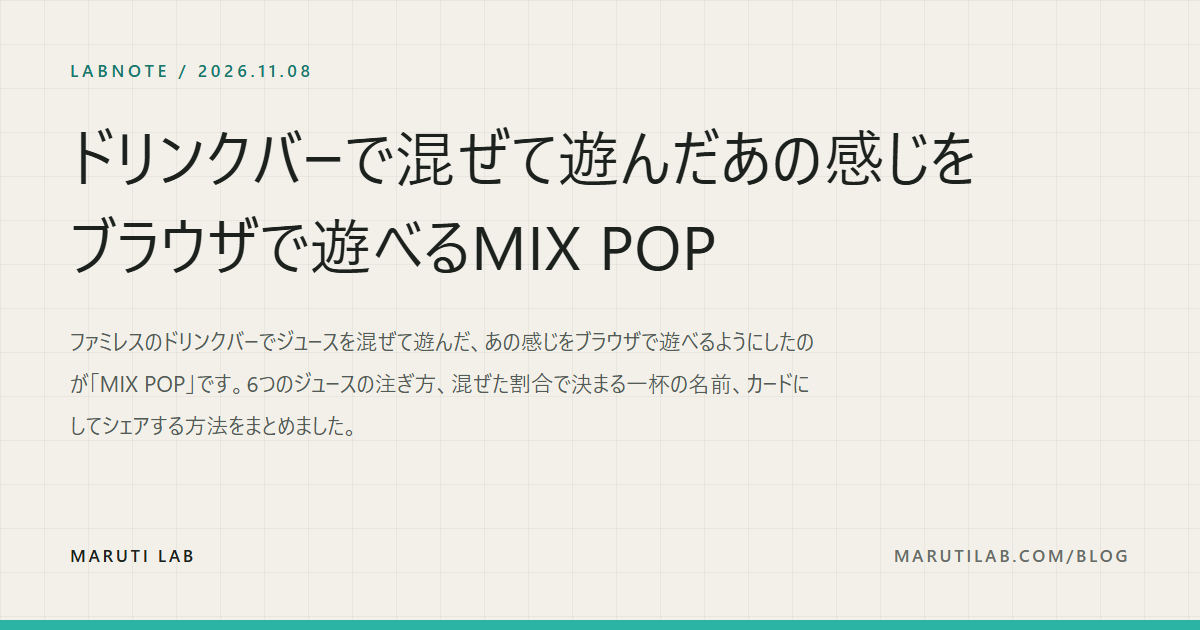
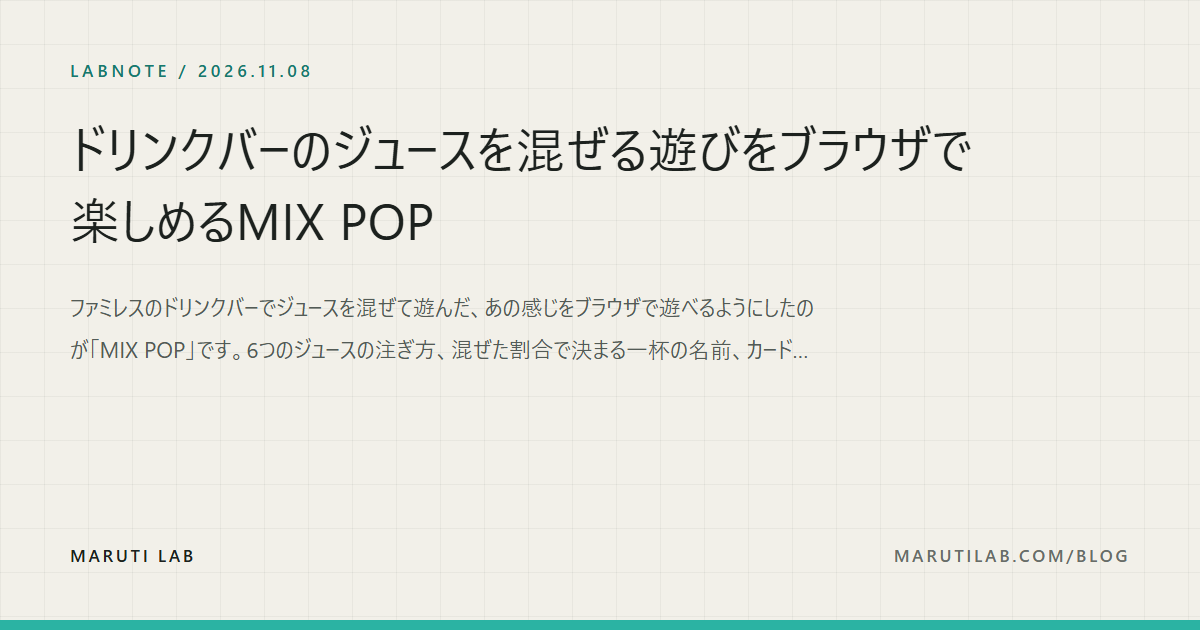
Retitle LabNotes for search and add the air hockey online play note
Titles no longer have to fit two lines, so fifteen notes now lead with
the words people search for, and links that quoted the old titles follow.
Long titles step down a size on the share card to fit three lines.

Changed region(s): [[0.0617, 0.181, 0.8325, 0.6333], [0.0617, 0.6635, 0.3083, 0.6937]]

diff --git a/app/og-preview/page.tsx b/app/og-preview/page.tsx
@@ -138,13 +138,20 @@ const noteArt: Record<string, string> = {
 // so a shared article looks like the site rather than like a default card.
 //
 //   node scripts/capture-note-ogp.mjs <slug>
+// Titles are written for search now, not to fit two lines, so a long one
+// steps down a size and the description gives up its third line to make room.
+// Width is counted the way the type sets it: half-width characters are half.
+const titleUnits = (title: string) =>
+  [...title].reduce((n, ch) => n + (/[\x20-\x7e]/.test(ch) ? 0.5 : 1), 0);
+
 function NoteCard({ slug, square }: { slug: string; square?: boolean }) {
   const post = posts.find((p) => p.slug === slug);
   if (!post) return null;
   const art = square ? undefined : noteArt[slug];
+  const long = titleUnits(post.title) > 28;
   return (
     <div
-      className={`${styles.card} ${styles.note} ${art ? styles.hasArt : ""} ${square ? styles.square : styles.wide}`}
+      className={`${styles.card} ${styles.note} ${art ? styles.hasArt : ""} ${long ? styles.longTitle : ""} ${square ? styles.square : styles.wide}`}
       id={square ? `${slug}-square` : slug}
     >
       <p className={styles.noteEyebrow}>LABNOTE / {formatDate(post.date)}</p>

diff --git a/app/og-preview/ogPreview.module.css b/app/og-preview/ogPreview.module.css
@@ -252,6 +252,24 @@
   overflow: hidden;
 }
 
+.note.longTitle h1 {
+  font-size: 50px;
+  max-width: 18.6em;
+  word-break: auto-phrase;
+}
+.note.longTitle .noteDesc {
+  display: -webkit-box;
+  -webkit-box-orient: vertical;
+  -webkit-line-clamp: 2;
+  overflow: hidden;
+}
+.note.hasArt.longTitle h1 {
+  max-width: 11.6em;
+}
+.note.longTitle.square h1 {
+  font-size: 40px;
+}
+
 .note.square h1 {
   font-size: 46px;
   margin-top: 26px;

diff --git a/content/posts/airhockey-online-lag.md b/content/posts/airhockey-online-lag.md
@@ -1,0 +1,72 @@
+---
+title: URLを送るだけで友達と遊べるエアホッケーのオンライン対戦を作った
+date: 2026-11-18
+description: ブラウザで遊べるエアホッケー「AIR HOCKEY」は、URLを送るだけで離れた友達とオンライン対戦ができます。遊び方と、家のWi-Fiで試したら相手のマレットやパックがワープした話、URLを送りに行ったら部屋が消えた話をどう直したかをまとめました。
+tags: [制作記, MarutiBit, AIR HOCKEY]
+draft: false
+work: /bit/airhockey
+image: /og/blog/airhockey-online-lag.png
+---
+
+ブラウザで遊べるエアホッケー「[AIR HOCKEY](/bit/airhockey)」は、**URLを送るだけで離れた友達とオンライン対戦ができます**。アプリもアカウントもいりません。ただ、作ってすぐ家で2台つないでみたら、相手のマレットがワープしていました。今回はその直し方も含めた開発日記です。
+
+<p class="postCta"><a href="/bit/airhockey">AIR HOCKEYで遊ぶ</a></p>
+
+## URLを送るだけで、離れた人と打ち合える
+
+これまでのAIR HOCKEYは、CPUと戦うか、スマホ1台を机に置いて2人で囲むかのどちらかでした。でも、エアホッケーって本当は誰かと打ち合うものじゃないですか。遠くに住んでいる友達とも、あのカンッをやりたい。それで作ったのがオンライン対戦です。
+
+遊び方はかんたんで、片方が部屋を作って、出てきたURLを相手に送るだけ。相手がそのURLを開けば、7点先取の試合が始まります。アプリもアカウントもいりません。
+
+![AIR HOCKEYのゲーム画面。赤い台の上で白いパックを打ち合う](/games/shots/airhockey.webp)
+*オンライン対戦も、いつもの赤い台で打ち合います*
+
+## 2台で試したら、相手のマレットが瞬間移動していた
+
+11月16日に公開して、翌日、家のスマホ2台で実際に打ち合ってみました。自分のマレットは指にぴったりついてくる。パックもちゃんと滑っている。ところが、**向こう側の相手のマレットだけが、カクッ、カクッと飛び飛びに動く**んです。
+
+原因は、届いた位置をそのまま画面に出していたことでした。相手の動きは、回線を通って少しずつ届きます。Wi-Fiだと、届くのが遅れたり、何回分かまとめて届いたりする。届いたその瞬間に置き直すので、まとめて届いた分だけ一気に飛んで見えていたわけです。
+
+直し方は、ちょっと意外でした。**わざと少しだけ遅らせて、なめらかに再生する**んです。相手の端末から届く位置には、送った時刻を付けてもらう。こちらはそれを0.02秒ほど遅れて追いかけるように再生する。遅れて届いたときは、その分だけ待つ時間を伸ばす。遅らせたほうが滑らかに見える、というのはなんだか不思議な話ですが、動画の再生がバッファを貯めてから始まるのと同じ考え方だそうです。
+
+## 次はパックが飛んだ
+
+マレットが直って、もう一度2台で打ち合ってみたら、今度は**パックが飛びました**。笑
+
+このゲームでは、パックの動きを計算するのは、パックがいる側の端末です。センターラインを越えたら、計算する役を相手に渡す。2台が同時に同じパックを計算すると、少しずつずれて、そのうちパックが2つあるような状態になってしまうので、持ち主を1台に決めて、バトンのように受け渡しているんです。エアホッケーは台の真ん中にラインがあるので、この分け方がちょうど合いました。
+
+問題は、受け渡しのときに、相手から届いた位置へパックを一気に置き直していたことでした。ほんの数センチのずれでも、速いパックが一瞬で横へ跳ぶと、ワープに見えます。そこで、**ずれは一度に直さず、0.1秒かけてじわっと戻す**ようにしました。
+
+Wi-Fiの遅れや詰まりをわざと起こすテストも作ってもらって、直す前と後で比べると、相手の陣地でパックが飛んだ回数は189回から11回に減りました。
+
+<div class="point"><p class="pointTitle">オンライン対戦でカクつかせないために変えたこと</p><ul><li>相手の動きは、少し遅らせてなめらかに再生する</li><li>パックを計算するのは、パックがいる側の1台だけ</li><li>ずれは一気に直さず、0.1秒かけて戻す</li></ul></div>
+
+## URLを送りに行ったら、部屋が消えていた
+
+カクつきとは別に、もうひとつ、試してみて初めてわかったことがあります。
+
+部屋を作って、URLをLINEで送ろうと別のアプリに切り替える。送って戻ってくると、**部屋が消えていて、相手が入れない**。スマホは、裏に回ったページの通信をすぐ止めてしまうので、URLを送りに行っている間に部屋とのつながりが切れていたんです。
+
+画面の上で作っているときには、まず気づかない穴でした。実際に人を誘う流れでやってみたら、一発で踏みました。
+
+今は、待っている間に切れても、ページに戻ってきたら同じ部屋へ自動で入り直します。スマホでは、ボタンが「URLを送る」になっていて、押すとそのままLINEなどの共有画面が開きます。
+
+## 試合の途中で切れても、続きから再開できる
+
+電車でトンネルに入ったり、Wi-Fiが一瞬途切れたりすることもあります。最初の版では、そうなったら試合はそこで終わりでした。
+
+切れたらそれっきり、というのはさすがに味気ないので直しました。**試合中に切れても、2人とも同じ部屋に戻れば、点数を引き継いで続きから再開**します。うっかりページを閉じてしまっても、15分以内なら「REJOIN ROOM」でさっきの部屋に戻れます。
+
+細かいところでは、マレットの色もそろえました。部屋を作った人が青、入った人が黄色。どちらの画面で見ても同じです。「今、青いほうが勝ってる」と、電話しながらでも話が通じるように。
+
+<div class="kome"><p>端末どうしを直接つないで、うまくつながらないときだけ部屋を経由して中継する作り。サーバー代をかけずに動かしている。</p></div>
+
+## 遠くの誰かと、あのカンッを
+
+ゲームを作っていると、自分の画面の上で動いた時点で「できた」と思ってしまいます。でもオンライン対戦は、2台で、本物の回線で、本当に人を誘ってみないと、できたかどうかわからないものでした。マレットが飛んで、パックが飛んで、部屋が消えて。全部、触ってみて初めて見えたことです。
+
+URLを送るだけなので、離れて住んでいる家族や友達との、ちょっとした勝負にどうぞ。7点先取なので、1試合は数分で終わります。
+
+それでは、また。
+
+<p class="postCta"><a href="/bit/airhockey">AIR HOCKEYをオンラインで遊ぶ</a></p>

diff --git a/content/posts/touch-only-stress-toys.md b/content/posts/touch-only-stress-toys.md
@@ -48,7 +48,7 @@ image: /og/blog/touch-only-stress-toys.png
 - ゆっくり引くと濃く、すばやく引くとかすれる
 - 下のつまみを左右に動かすと、通ったところだけ消える
 
-**描いて、消して、また描く**を繰り返すだけの遊びです。ひらがなやたし算のお手本も出せるので、子どもと一緒にも遊べます。戻るボタンを付けなかった理由は「[戻るボタンを付けなかったお絵かきボード](/blog/magnet-board)」に書きました。
+**描いて、消して、また描く**を繰り返すだけの遊びです。ひらがなやたし算のお手本も出せるので、子どもと一緒にも遊べます。戻るボタンを付けなかった理由は「[戻るボタンを付けなかった磁気お絵かきボードのブラウザ版](/blog/magnet-board)」に書きました。
 
 ![MAGNET BOARDの画面](/games/shots/magnetboard.webp)
 *描いたあと、つまみで「シャーッ」と消します*
@@ -57,7 +57,7 @@ image: /og/blog/touch-only-stress-toys.png
 
 ## 水槽に餌をやるだけのPAKUもある
 
-「[PAKU（パク）](/bit/paku)」は、水槽の熱帯魚に、タップで餌をあげるだけのおもちゃです。指を動かすというより、魚が食べに来るのを眺めている時間の方が長い遊びです。作った理由は「[餌やりだけの水槽を作った理由。](/blog/paku)」に書きました。
+「[PAKU（パク）](/bit/paku)」は、水槽の熱帯魚に、タップで餌をあげるだけのおもちゃです。指を動かすというより、魚が食べに来るのを眺めている時間の方が長い遊びです。作った理由は「[タップで餌をやるだけの熱帯魚の水槽ゲームを作った理由](/blog/paku)」に書きました。
 
 どれもブラウザで開くだけで、インストールも登録もいりません。音はMarutiBitの全部のゲームで共通の設定なので、ほかのゲームで音を消していれば、ここでも消えたまま始まります。
 

diff --git a/content/posts/free-browser-games.md b/content/posts/free-browser-games.md
@@ -17,7 +17,7 @@ MarutiBitのゲームは、**どれもブラウザで開くだけで、無料・
 | [BLANK](/bit/blank) | 四則演算の式の空欄を逆算する |
 | [SEQUENCE](/bit/sequence) | 数の並びの規則を見抜く |
 
-どれも時間制限なしで、**数分で終わります**。3つの違いは「[大人の頭の体操に5問だけの計算と図形のパズル](/blog/brain-puzzles)」にまとめました。
+どれも時間制限なしで、**数分で終わります**。3つの違いは「[大人の頭の体操にちょうどいい5問だけの計算と図形のパズル](/blog/brain-puzzles)」にまとめました。
 
 ## 指を動かしたいときは、打つ・弾く・連打する
 
@@ -55,6 +55,6 @@ MarutiBitのゲームは、**どれもブラウザで開くだけで、無料・
 
 <div class="kome"><p>思ってもみなかったゲームが、案外その日の気分に合うこともある。</p></div>
 
-触るだけのおもちゃは「[触るだけで気がまぎれるデジタルフィジェットトイ](/blog/touch-only-stress-toys)」、MIX POPの遊び方は「[ドリンクバーで混ぜて遊んだあの感じをブラウザで遊べるMIX POP](/blog/drink-bar-mix)」で紹介しています。
+触るだけのおもちゃは「[触るだけで気がまぎれるデジタルフィジェットトイ](/blog/touch-only-stress-toys)」、MIX POPの遊び方は「[ドリンクバーのジュースを混ぜる遊びをブラウザで楽しめるMIX POP](/blog/drink-bar-mix)」で紹介しています。
 
 <p class="postCta"><a href="/bit">MarutiBitのゲームを見る</a></p>

diff --git a/content/posts/batch-crop-resize.md b/content/posts/batch-crop-resize.md
@@ -78,7 +78,7 @@ JPEGには「品質」の設定があります。**85％にしておけば、見
 
 画像を加工するWebサービスの多くは、画像をいったんサーバーに送っています。SwiftCropは、切り抜きもリサイズも**全部ブラウザの中だけで処理**しているので、画像が外に出ることはありません。
 
-送って待つ時間もないので、枚数が多くても思ったより早く終わります。送らない作りにした理由は「[画像を外部に送信しないWebツールという選択。](/blog/browser-only)」に書きました。
+送って待つ時間もないので、枚数が多くても思ったより早く終わります。送らない作りにした理由は「[画像をアップロードせず端末の中だけで処理するWebツールを作った理由](/blog/browser-only)」に書きました。
 
 用途ごとのそろえ方は、「[メルカリの出品写真を正方形にそろえて見やすくする](/blog/mercari-photo-square)」「[ブログのアイキャッチ画像は1200×630にそろえる](/blog/blog-eyecatch-size)」「[LoRA学習用の画像を1024pxの正方形にそろえる方法](/blog/lora-dataset-resize)」にまとめました。
 

diff --git a/content/posts/reverse-calculation.md b/content/posts/reverse-calculation.md
@@ -75,6 +75,6 @@ image: /og/blog/reverse-calculation.png
 ![BLANKの問題画面](/games/shots/blank.webp)
 *BLANKは式の空欄を逆算します*
 
-この記事の例題は、BLANKの各段階の例題と同じ形です。**答えはすべて正の整数**なので、暗算でも解けます。1問ごとに、ほどき方の説明も出ます。図形のANGLE、数列のSEQUENCEとあわせた紹介は「[大人の頭の体操に5問だけの計算と図形のパズル](/blog/brain-puzzles)」にまとめました。
+この記事の例題は、BLANKの各段階の例題と同じ形です。**答えはすべて正の整数**なので、暗算でも解けます。1問ごとに、ほどき方の説明も出ます。図形のANGLE、数列のSEQUENCEとあわせた紹介は「[大人の頭の体操にちょうどいい5問だけの計算と図形のパズル](/blog/brain-puzzles)」にまとめました。
 
 <p class="postCta"><a href="/bit/blank">BLANKで遊ぶ</a></p>

diff --git a/content/posts/number-sequence-rules.md b/content/posts/number-sequence-rules.md
@@ -75,6 +75,6 @@ image: /og/blog/number-sequence-rules.png
 ![SEQUENCEの問題画面](/games/shots/sequence.webp)
 *SEQUENCEは数の並びの規則を見抜きます*
 
-答えたあとには、どんな規則だったかの説明も出ます。**上級では、差が変わる型と交互の型がまざって出ます**。図形のANGLE、計算のBLANKとあわせた紹介は「[大人の頭の体操に5問だけの計算と図形のパズル](/blog/brain-puzzles)」にまとめました。
+答えたあとには、どんな規則だったかの説明も出ます。**上級では、差が変わる型と交互の型がまざって出ます**。図形のANGLE、計算のBLANKとあわせた紹介は「[大人の頭の体操にちょうどいい5問だけの計算と図形のパズル](/blog/brain-puzzles)」にまとめました。
 
 <p class="postCta"><a href="/bit/sequence">SEQUENCEで遊ぶ</a></p>

diff --git a/content/posts/triangle-angle-rules.md b/content/posts/triangle-angle-rules.md
@@ -73,6 +73,6 @@ image: /og/blog/triangle-angle-rules.png
 ![ANGLEの問題画面](/games/shots/angle.webp)
 *ANGLEは三角形の角度から「？」を求めます*
 
-**初級で内角の和、中級で対頂角**と、この記事のきまりを順に使う作りです。計算のBLANK、数列のSEQUENCEとあわせた紹介は「[大人の頭の体操に5問だけの計算と図形のパズル](/blog/brain-puzzles)」にまとめました。
+**初級で内角の和、中級で対頂角**と、この記事のきまりを順に使う作りです。計算のBLANK、数列のSEQUENCEとあわせた紹介は「[大人の頭の体操にちょうどいい5問だけの計算と図形のパズル](/blog/brain-puzzles)」にまとめました。
 
 <p class="postCta"><a href="/bit/angle">ANGLEで遊ぶ</a></p>
